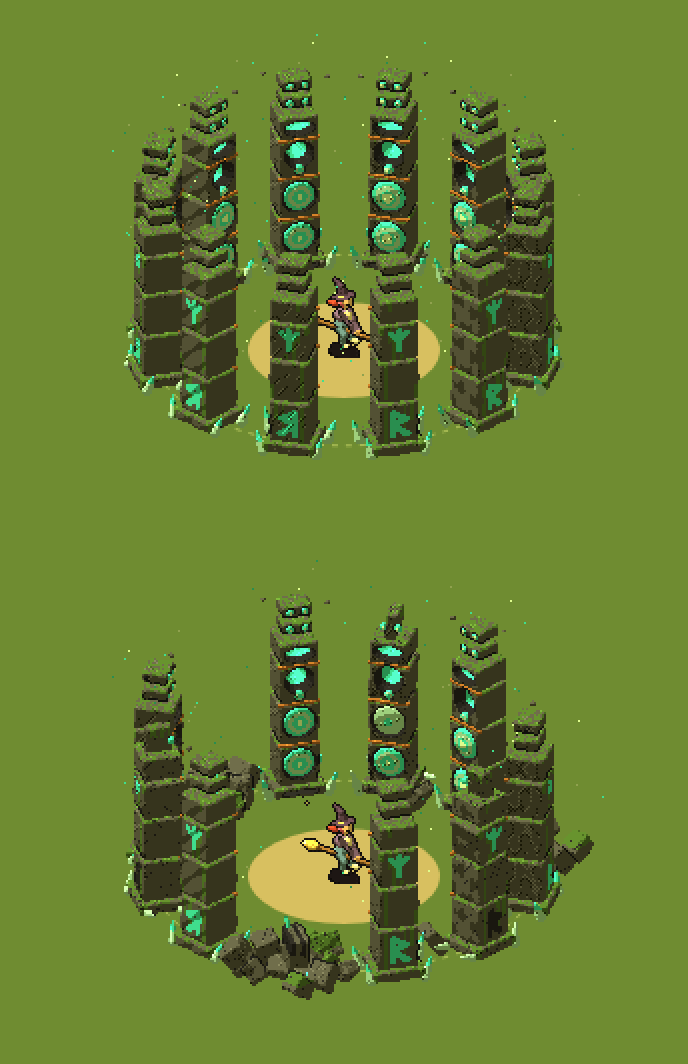
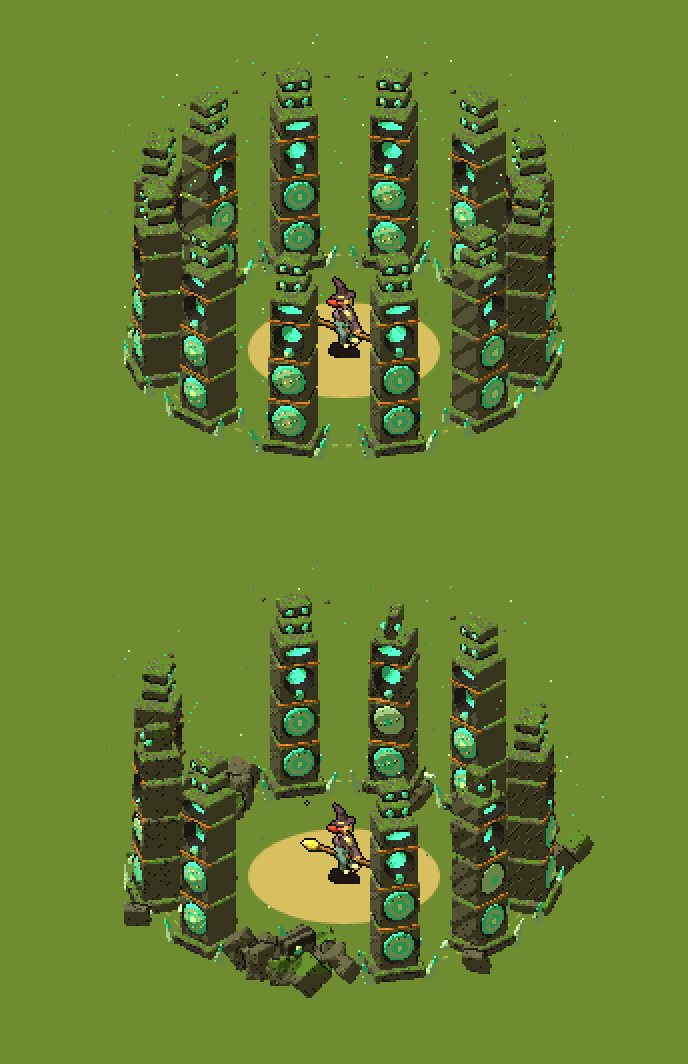
Dancefloor speakers: three angles, every speaker showing its front
Ed's correction: the near half of the ring faces outwards and the far half
inwards, so every speaker shows the camera its front and only 3 yaws are
needed (15, 45, 75 degrees), mirrored for the other side.
dancefloorSpeakerFacing follows the rule; the export, its convention, the
ring preview, the lab, the check and the docs follow. The back is still
modelled (any yaw draws) and the check compares it with the front.

Claude-Session: https://claude.ai/code/session_01FVGKHvaavDn5xGsWtRTBaz

diff --git a/tools/art-lab/dist/witch-art-lab.html b/tools/art-lab/dist/witch-art-lab.html
@@ -193,7 +193,7 @@ textarea { width: 100%; min-height: 90px; background: var(--bg); color: var(--fg
 
       <section style="display:grid;gap:10px">
         <h2>Soundsystems</h2>
-        <p class="note">What the party defends: a sound-system stack hewn from magic stone, with glowing crystal cones. Each of the three stacks is shown playing (three frames of the cones pumping), damaged (two frames of flicker) and destroyed, with the witch for scale. Below them, the dancefloor speakers: one column each, twelve round the dancefloor facing its centre, drawn at six angles (15&deg; to 165&deg; from facing us; mirrored for the other six), playing, damaged and destroyed.</p>
+        <p class="note">What the party defends: a sound-system stack hewn from magic stone, with glowing crystal cones. Each of the three stacks is shown playing (three frames of the cones pumping), damaged (two frames of flicker) and destroyed, with the witch for scale. Below them, the dancefloor speakers: one column each, twelve round the dancefloor, the far half facing in and the near half out so each shows us its front, drawn at three angles (15&deg;, 45&deg; and 75&deg; from facing us; mirrored for the other side), playing, damaged and destroyed.</p>
         <div class="sheet-wrap"><canvas id="soundsystems" width="420" height="200"></canvas></div>
       </section>
 
@@ -4414,17 +4414,21 @@ function soundsystems(st, bk) {
 // One column of hewn stone, like a standing stone: a plinth with a glowing slot, two bass bins,
 // a horn, a mid and two floating tweeter stones. Its front (+z in the model) has the crystal cones
 // and horn mouths; its back is plain stone with a carved rune or two and moss running down it.
-// Drawn at six yaws (degrees from facing the camera); their mirrors give the other six:
+// Every speaker shows its front to the camera (Ed: "the ones at the bottom half of the circle face
+// outwards, the ones at the top half face inwards"), so three yaws are drawn (degrees from facing the
+// camera) and mirrored for the other side:
 //   a speaker at ring angle a (degrees round the dancefloor from the side nearest the camera, its
-//   ground position centre + R (sin a, cos a) in x right and z towards the camera), facing the centre,
-//   has yaw 180 - a (wrapped to -180..180): the sprite is the angle |yaw|, flipped if yaw < 0.
-// With a = 15 + 30 i that uses exactly the six angles. Near the camera we see backs, far side fronts.
-const DANCEFLOOR_SPEAKER_ANGLES = [15, 45, 75, 105, 135, 165];
+//   ground position centre + R (sin a, cos a) in x right and z towards the camera) faces the centre
+//   if it is in the far half (cos a < 0): yaw 180 - a; in the near half it faces away: yaw -a (each
+//   wrapped to -180..180). The sprite is the angle |yaw|, flipped if yaw < 0.
+// With a = 15 + 30 i every yaw is one of +-15, +-45, +-75. The back is modelled too, though unused.
+const DANCEFLOOR_SPEAKER_ANGLES = [15, 45, 75];
 const DANCEFLOOR_SPEAKER_STATES = { playing: 3, damaged: 2, destroyed: 1 };
 function dancefloorSpeakerFacing(ringDeg) {
-  let yaw = 180 - ringDeg; yaw = ((yaw + 180) % 360 + 360) % 360 - 180;
+  const r = ringDeg * Math.PI / 180, outward = Math.cos(r) > 0;
+  let yaw = outward ? -ringDeg : 180 - ringDeg; yaw = ((yaw + 180) % 360 + 360) % 360 - 180;
   const angle = DANCEFLOOR_SPEAKER_ANGLES.reduce((b, a) => Math.abs(a - Math.abs(yaw)) < Math.abs(b - Math.abs(yaw)) ? a : b);
-  return { yaw, angle, flip: yaw < 0 };
+  return { yaw, angle, flip: yaw < 0, outward };
 }
 // A little shorter than the soundsystems (three times the witch): the ring shouldn't wall in the floor.
 const dancefloorSpeakerHeight = st => witchHeight(st) * 2.6;
@@ -4502,7 +4506,7 @@ function dfRubbleModel() {
 }
 
 const dfScales = new Map();
-// One dancefloor speaker: angle (one of DANCEFLOOR_SPEAKER_ANGLES, degrees of yaw from facing us),
+// One dancefloor speaker: angle (one of DANCEFLOOR_SPEAKER_ANGLES, degrees of yaw from facing us; any yaw draws, 165 shows the back),
 // state "playing" (frame 0..2), "damaged" (0..1) or "destroyed". Every angle and state shares one
 // scale. Returns { sp, origin: { x, y } (its middle on the ground, in the sprite), angle }.
 function dancefloorSpeakerSprite(st = {}, { angle = 15, state = "playing", frame = 0 } = {}) {

diff --git a/art/soundsystem.js b/art/soundsystem.js
@@ -170,17 +170,21 @@ export function soundsystems(st, bk) {
 // One column of hewn stone, like a standing stone: a plinth with a glowing slot, two bass bins,
 // a horn, a mid and two floating tweeter stones. Its front (+z in the model) has the crystal cones
 // and horn mouths; its back is plain stone with a carved rune or two and moss running down it.
-// Drawn at six yaws (degrees from facing the camera); their mirrors give the other six:
+// Every speaker shows its front to the camera (Ed: "the ones at the bottom half of the circle face
+// outwards, the ones at the top half face inwards"), so three yaws are drawn (degrees from facing the
+// camera) and mirrored for the other side:
 //   a speaker at ring angle a (degrees round the dancefloor from the side nearest the camera, its
-//   ground position centre + R (sin a, cos a) in x right and z towards the camera), facing the centre,
-//   has yaw 180 - a (wrapped to -180..180): the sprite is the angle |yaw|, flipped if yaw < 0.
-// With a = 15 + 30 i that uses exactly the six angles. Near the camera we see backs, far side fronts.
-export const DANCEFLOOR_SPEAKER_ANGLES = [15, 45, 75, 105, 135, 165];
+//   ground position centre + R (sin a, cos a) in x right and z towards the camera) faces the centre
+//   if it is in the far half (cos a < 0): yaw 180 - a; in the near half it faces away: yaw -a (each
+//   wrapped to -180..180). The sprite is the angle |yaw|, flipped if yaw < 0.
+// With a = 15 + 30 i every yaw is one of +-15, +-45, +-75. The back is modelled too, though unused.
+export const DANCEFLOOR_SPEAKER_ANGLES = [15, 45, 75];
 export const DANCEFLOOR_SPEAKER_STATES = { playing: 3, damaged: 2, destroyed: 1 };
 export function dancefloorSpeakerFacing(ringDeg) {
-  let yaw = 180 - ringDeg; yaw = ((yaw + 180) % 360 + 360) % 360 - 180;
+  const r = ringDeg * Math.PI / 180, outward = Math.cos(r) > 0;
+  let yaw = outward ? -ringDeg : 180 - ringDeg; yaw = ((yaw + 180) % 360 + 360) % 360 - 180;
   const angle = DANCEFLOOR_SPEAKER_ANGLES.reduce((b, a) => Math.abs(a - Math.abs(yaw)) < Math.abs(b - Math.abs(yaw)) ? a : b);
-  return { yaw, angle, flip: yaw < 0 };
+  return { yaw, angle, flip: yaw < 0, outward };
 }
 // A little shorter than the soundsystems (three times the witch): the ring shouldn't wall in the floor.
 export const dancefloorSpeakerHeight = st => witchHeight(st) * 2.6;
@@ -258,7 +262,7 @@ function dfRubbleModel() {
 }
 
 const dfScales = new Map();
-// One dancefloor speaker: angle (one of DANCEFLOOR_SPEAKER_ANGLES, degrees of yaw from facing us),
+// One dancefloor speaker: angle (one of DANCEFLOOR_SPEAKER_ANGLES, degrees of yaw from facing us; any yaw draws, 165 shows the back),
 // state "playing" (frame 0..2), "damaged" (0..1) or "destroyed". Every angle and state shares one
 // scale. Returns { sp, origin: { x, y } (its middle on the ground, in the sprite), angle }.
 export function dancefloorSpeakerSprite(st = {}, { angle = 15, state = "playing", frame = 0 } = {}) {

diff --git a/tools/art-lab/witch-art-lab.html b/tools/art-lab/witch-art-lab.html
@@ -193,7 +193,7 @@ textarea { width: 100%; min-height: 90px; background: var(--bg); color: var(--fg
 
       <section style="display:grid;gap:10px">
         <h2>Soundsystems</h2>
-        <p class="note">What the party defends: a sound-system stack hewn from magic stone, with glowing crystal cones. Each of the three stacks is shown playing (three frames of the cones pumping), damaged (two frames of flicker) and destroyed, with the witch for scale. Below them, the dancefloor speakers: one column each, twelve round the dancefloor facing its centre, drawn at six angles (15&deg; to 165&deg; from facing us; mirrored for the other six), playing, damaged and destroyed.</p>
+        <p class="note">What the party defends: a sound-system stack hewn from magic stone, with glowing crystal cones. Each of the three stacks is shown playing (three frames of the cones pumping), damaged (two frames of flicker) and destroyed, with the witch for scale. Below them, the dancefloor speakers: one column each, twelve round the dancefloor, the far half facing in and the near half out so each shows us its front, drawn at three angles (15&deg;, 45&deg; and 75&deg; from facing us; mirrored for the other side), playing, damaged and destroyed.</p>
         <div class="sheet-wrap"><canvas id="soundsystems" width="420" height="200"></canvas></div>
       </section>
 

diff --git a/CLAUDE.md b/CLAUDE.md
@@ -27,7 +27,7 @@ Not in CI, run by builders before a FINAL: `npm run build && npm run smoke`, a h
 
 The art generator (`art/`, entry `art/generator.js`) and the Witch Art Lab (`tools/art-lab/`) have one more check, not in CI, run from the repository root before every push that touches them:
 
-- `node art/check.mjs` — builds the lab, opens the source page and the built page in headless Chromium (no script errors, a bestiary card for every species, the scene drawn), and draws every creature, tree, bush, area type, soundsystem and sigil (each non-empty, creatures and soundsystems standing on their bottom row; baby < young < adult < legend for every species, and the bigger species' adults 1.15 to 1.45 times the witch; party gear (collar, hat, shoes) shows on every species at baby, young and adult without changing its size, woken eyes glow red, partyGear is seeded and varied; only magical materials glow, and flowering areas have no glowing pixels; a soundsystem about three times the witch; the dancefloor speakers stand at their six angles in every state (3 playing, 2 damaged, destroyed) at one scale, about 2.6 times the witch, their fronts and backs different, and the 12 ring places use each angle once plain and once mirrored; every wooded area has at least 8 tree variants over at least 3 height classes, taller by class; every tree species draws, each crown differs measurably from every other's from the treetops, areas with the same layout pattern never share a main species, none is the main kind of more than two areas, and plain broadleaf is left only to the dead woods; every species' bottom half carries some life (ivy, moss, sprigs, low boughs, skirts), saplings more, without changing its top half, and no wall of leaves at the witch's eye height; the witch's rise, descend, fast and brake frames exist for both facings at her ordinary scale with nothing NaN; so do her on-foot poses (stand 3, land 3, takeoff 3, talk 4, placeSigil 3, liftSigil 3, sit 2), each with hand and hat-tip anchors inside the sprite, the hand above her hat reaching for the stack and down by her feet at the ground; every species has a sigil that renders as vector, as a 12 px glyph, on the ground and floating, its strokes inside the box, each level's ground rune bigger, the young's ring dotted and the adult's full (telling apart at 14 px); the treehouse is 12 to 18 m tall turned towards and away, its top and bottom halves add up to the whole, its windows glow, and its seat anchor is on the terrace; every area has a set piece, the twenty new 3D ones standing on the ground at 6 to 12 m; the modern relics (15+), the playground (6 pieces) and the sports grounds stand, their ground decals lie flat at 15 to 30 m, only the flagged ones glow and every arrangement names real pieces with one glowing touch at most; the world decorations (12 ruins in two conditions, 8 rocks, 8 freak trees) stand, ruins 4 to 14 m with a few tall enough for the treetops, tall ones split top and bottom, only the flagged ones glow, and the lake kit is whole; each of the 10 path kinds' strips repeats exactly every period (so it tiles along a spline), with an end, a Y and a T, only the magic trail glows, the railway's points, broken end and crossing are drawn, the 3D path pieces stand, and every area suits a path kind; the leash stack stands newest at the bottom, trails behind her flight and settles).
+- `node art/check.mjs` — builds the lab, opens the source page and the built page in headless Chromium (no script errors, a bestiary card for every species, the scene drawn), and draws every creature, tree, bush, area type, soundsystem and sigil (each non-empty, creatures and soundsystems standing on their bottom row; baby < young < adult < legend for every species, and the bigger species' adults 1.15 to 1.45 times the witch; party gear (collar, hat, shoes) shows on every species at baby, young and adult without changing its size, woken eyes glow red, partyGear is seeded and varied; only magical materials glow, and flowering areas have no glowing pixels; a soundsystem about three times the witch; the dancefloor speakers stand at their three angles in every state (3 playing, 2 damaged, destroyed) at one scale, about 2.6 times the witch, their fronts and backs different, and the 12 ring places (the far half facing in, the near half out) all show their fronts, each angle twice plain and twice mirrored; every wooded area has at least 8 tree variants over at least 3 height classes, taller by class; every tree species draws, each crown differs measurably from every other's from the treetops, areas with the same layout pattern never share a main species, none is the main kind of more than two areas, and plain broadleaf is left only to the dead woods; every species' bottom half carries some life (ivy, moss, sprigs, low boughs, skirts), saplings more, without changing its top half, and no wall of leaves at the witch's eye height; the witch's rise, descend, fast and brake frames exist for both facings at her ordinary scale with nothing NaN; so do her on-foot poses (stand 3, land 3, takeoff 3, talk 4, placeSigil 3, liftSigil 3, sit 2), each with hand and hat-tip anchors inside the sprite, the hand above her hat reaching for the stack and down by her feet at the ground; every species has a sigil that renders as vector, as a 12 px glyph, on the ground and floating, its strokes inside the box, each level's ground rune bigger, the young's ring dotted and the adult's full (telling apart at 14 px); the treehouse is 12 to 18 m tall turned towards and away, its top and bottom halves add up to the whole, its windows glow, and its seat anchor is on the terrace; every area has a set piece, the twenty new 3D ones standing on the ground at 6 to 12 m; the modern relics (15+), the playground (6 pieces) and the sports grounds stand, their ground decals lie flat at 15 to 30 m, only the flagged ones glow and every arrangement names real pieces with one glowing touch at most; the world decorations (12 ruins in two conditions, 8 rocks, 8 freak trees) stand, ruins 4 to 14 m with a few tall enough for the treetops, tall ones split top and bottom, only the flagged ones glow, and the lake kit is whole; each of the 10 path kinds' strips repeats exactly every period (so it tiles along a spline), with an end, a Y and a T, only the magic trail glows, the railway's points, broken end and crossing are drawn, the 3D path pieces stand, and every area suits a path kind; the leash stack stands newest at the bottom, trails behind her flight and settles).
 
 Related commands: `node tools/art-lab/build.mjs` writes the self-contained lab page to `tools/art-lab/dist/witch-art-lab.html` (the one to publish); `node art/export.mjs [style.json] [out dir]` exports every asset as albedo and normal-map PNGs with `manifest.json` (default `art/out/`, not committed); `node art/preview.mjs animals|trees|treeheights|areas|sets|lights|soundsystems|sigils|witch|home|relics|grounds|decor|lake|paths|pathpieces|species|canopy|speakers|ring <list> <png> [scale]` renders lit preview sheets. They need Playwright's Chromium (in cloud sessions, under `/opt/pw-browsers`).
 
@@ -42,7 +42,7 @@ Literal, stable names for the parts of the game, as Ed and the builders agree th
 - **Modern relics**: the forest's reclaimed modern world (`art/relics.js`): cars, trolleys, cones, broken highway, odds and ends, an overgrown playground and sports grounds, with suggested arrangements; no brands or text.
 - **World decorations**: scattered features any area can have, independent of its own props (`art/decor.js`): ruins, rocks, freak trees, and the lake kit; an area's `layout.decor` will weight their families.
 - **Path kinds**: the ten kinds of path (`art/paths.js`), each a ground-space strip the prototype sweeps along a spline, with end and junction patches and 3D edge props; the railway adds points, a broken end, a crossing and landmarks.
-- **Dancefloor speakers**: the ring of 12 single-column speakers round the dancefloor, replacing its stones (`dancefloorSpeakerSprite` in `art/soundsystem.js`), each facing the centre; drawn at six angles and mirrored for the other six; playing, damaged and destroyed.
+- **Dancefloor speakers**: the ring of 12 single-column speakers round the dancefloor, replacing its stones (`dancefloorSpeakerSprite` in `art/soundsystem.js`), the far half facing the centre and the near half facing out, so every one shows its front; drawn at three angles and mirrored; playing, damaged and destroyed.
 - **Tree species**: the kinds of tree in `art/trees.js` (`TREE_SPECIES`): the original six and fifteen UK species (oak, beech, ash, lime, sycamore, horse chestnut, rowan, alder, Scots pine, yew, hawthorn, holly, hazel, weeping birch, larch); each area names a main species and often a minor one.
 - **Remoteness**: how far an area is from home, 0 at the dancefloor's area to 1 at the map's edge; creatures grow more numerous and older with it.
 - **Tilt-shift**: the post-process blur toward the top and bottom of the screen that makes the forest look like a miniature.

diff --git a/art/README.md b/art/README.md
@@ -53,7 +53,7 @@ Every asset is a **baked sprite**: `{ A, N, NF, w, h }`.
 | `lakeKit(style)` | the pieces the prototype builds lakes from: `{ water (64 × 48 tile), shore (64 × 16 band, u along the edge, v water to land), reeds [3], lilies [3], colours }`; see the manifest's `lake` convention for how to compose them |
 | `PATH_KINDS`, `pathTextures(kind, { variant })`, `sweepPath(kind, polylines)`, `railPoints()`, `railBrokenEnd()`, `railCrossing()`, `PATH_PIECES`, `pathPieceSprite(id, style)`, `areaPathKinds()` | paths and railways (paths.js). Ten kinds (dirt, animal, flagstones, cobbles, stepping, boardwalk, tarmac, railway (plain, half-buried, overgrown), roots, magic: the one glowing kind), each `{ width, period, desc, moods, surface }`; `pathTextures` gives its GROUND-space textures (from straight above, 16 px per metre): `strip` (tiles along its length, to sweep along any spline), `end`, `y` and `t` junction patches. `sweepPath` is the reference sweep. The railway also has points, a broken end and a level-crossing patch. `PATH_PIECES` are 3D at the game's view: edge props, stairs, a root bridge, a footbridge, a rope bridge, and railway landmarks (a tipped goods wagon, an overgrown carriage with glowing windows, a platform, a level crossing, a signal gantry). `areaPathKinds` lists the kinds each area suits |
 | `soundsystemSprite(style, { variant, state, frame })`, `soundsystemColours(variant)` | one soundsystem (`SOUNDSYSTEMS` lists the three); `state` is `"playing"` (frames 0 to 2), `"damaged"` (0 to 1) or `"destroyed"` |
-| `dancefloorSpeakerSprite(style, { angle, state, frame })`, `dancefloorSpeakerColours()`, `dancefloorSpeakerFacing(ringDeg)` | a dancefloor speaker: one column of stone (bass bins, horn, mid, floating tweeters) about 2.6 times the witch, the ring of 12 round the dancefloor that replaces the stones. Drawn at the six yaws in `DANCEFLOOR_SPEAKER_ANGLES` (15° to 165° from facing the viewer), each `"playing"` (frames 0 to 2), `"damaged"` (0 to 1) and `"destroyed"` (`DANCEFLOOR_SPEAKER_STATES`), all at one scale; returns `{ sp, origin, angle }`. `dancefloorSpeakerFacing(a)` says which angle a speaker at ring angle `a` (degrees from the side nearest the camera) facing the centre uses, and whether to mirror it: yaw 180 − a, the sprite \|yaw\|, flipped if negative |
+| `dancefloorSpeakerSprite(style, { angle, state, frame })`, `dancefloorSpeakerColours()`, `dancefloorSpeakerFacing(ringDeg)` | a dancefloor speaker: one column of stone (bass bins, horn, mid, floating tweeters) about 2.6 times the witch, the ring of 12 round the dancefloor that replaces the stones. Drawn at the three yaws in `DANCEFLOOR_SPEAKER_ANGLES` (15°, 45° and 75° from facing the viewer; the back is modelled too), each `"playing"` (frames 0 to 2), `"damaged"` (0 to 1) and `"destroyed"` (`DANCEFLOOR_SPEAKER_STATES`), all at one scale; returns `{ sp, origin, angle }`. `dancefloorSpeakerFacing(a)` says which angle a speaker at ring angle `a` (degrees from the side nearest the camera) uses, and whether to mirror it: every one shows its front, the far half facing the centre (yaw 180 − a) and the near half away (yaw −a); the sprite \|yaw\|, flipped if negative |
 | `lightProps(style)` | the light sources, as in `buildAssets(...).lights` |
 | `bake(sp, colours, style, outline, makeCanvas)` | any sprite → `{ A, N, NF, w, h }` |
 | `rng(seed)` | the seeded random generator everything uses |
@@ -112,7 +112,7 @@ The night lighting pass the lab uses is `shade(target, out, style, lights, rect)
 - `relics.js`: the modern relics, the playground and the sports grounds, in 3D
 - `decor.js`: world decorations (ruins, rocks, freak trees) and the lake kit, in 3D
 - `paths.js`: paths and railways: ground textures to sweep along splines, and their 3D pieces
-- `soundsystem.js`: the soundsystems, in 3D (stone blocks as rounded boxes, horn mouths carved as hollows) and the dancefloor speakers (one column, six angles)
+- `soundsystem.js`: the soundsystems, in 3D (stone blocks as rounded boxes, horn mouths carved as hollows) and the dancefloor speakers (one column, three angles)
 - `setpieces.js`: the twenty 3D set pieces
 - `sigils.js`: the creature sigils and their renderers
 - `lighting.js`: the night lighting pass
